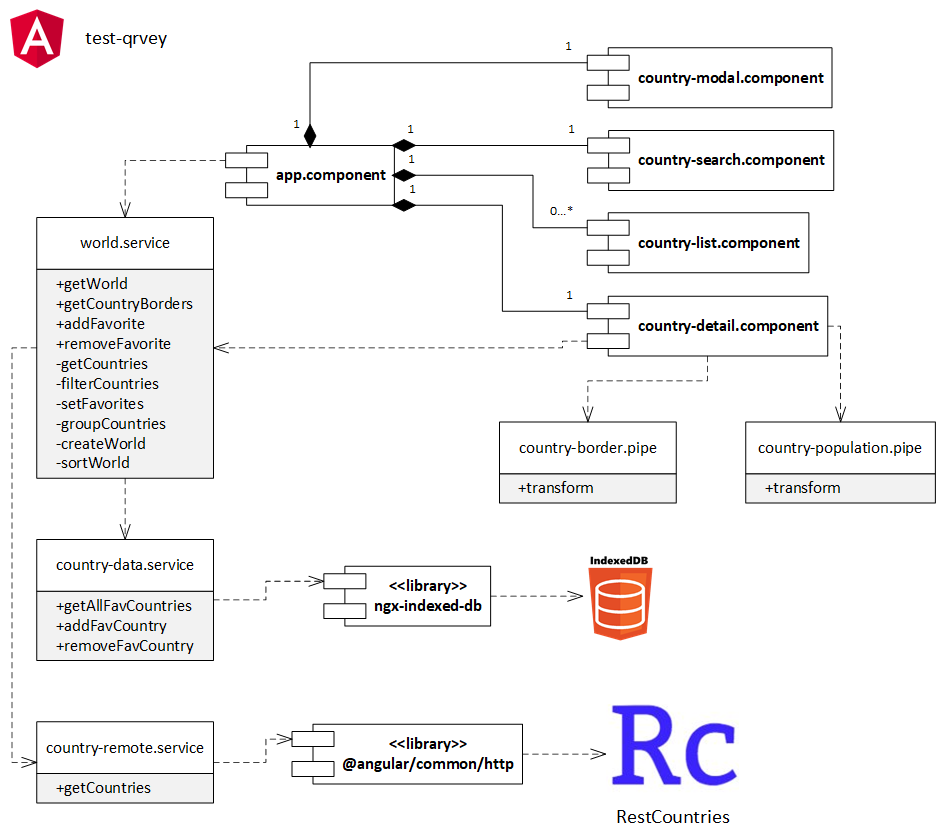
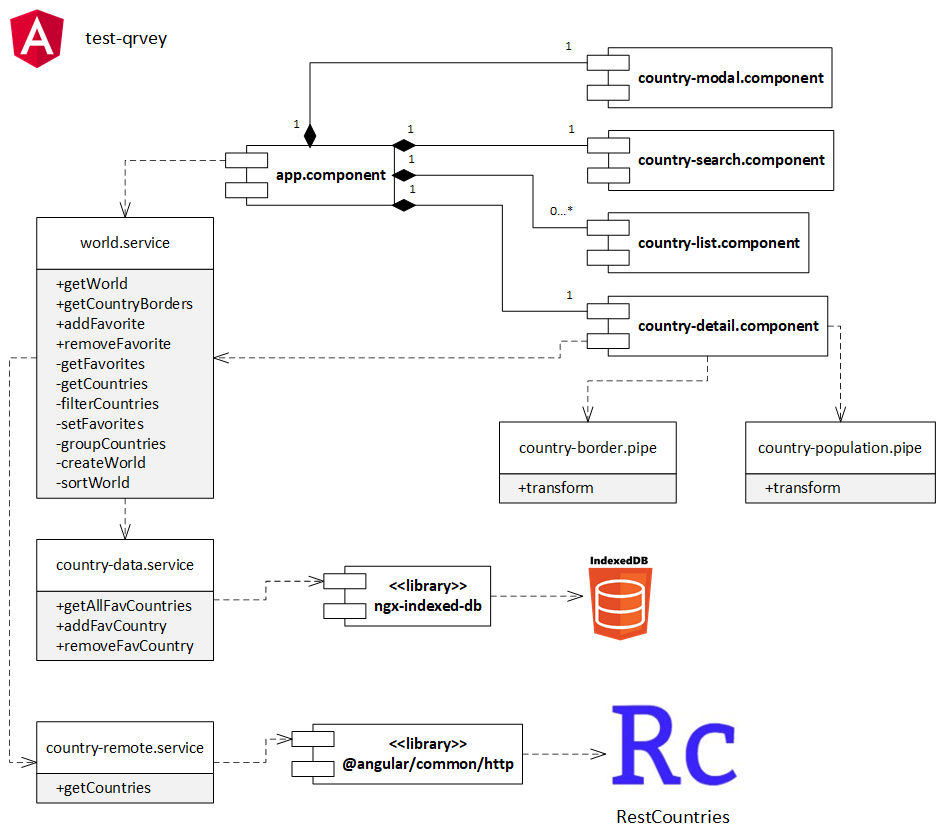
file documentation

Changed region(s): [[0.0619, 0.4029, 0.1857, 0.5888], [0.3404, 0.4029, 0.588, 0.4338], [0.2166, 0.4029, 0.2476, 0.4338]]

diff --git a/src/app/services/world.service.ts b/src/app/services/world.service.ts
@@ -1,13 +1,17 @@
-import { Observable, OperatorFunction } from 'rxjs';
-import { map, mergeAll } from 'rxjs/operators';
+import { Observable, OperatorFunction, of } from 'rxjs';
+import { catchError, map, mergeAll } from 'rxjs/operators';
 
 import { Country } from './../models/country';
 import { CountryDataService } from './../repository/country-data.service';
 import { CountryRemoteService } from '../repository/country-remote.service';
 import { Injectable } from '@angular/core';
 import { Region } from './../models/region';
+import { StorageData } from './../models/interfaces/storage-data';
 import { World } from './../models/world';
 
+/**
+ * service to manage the world
+ */
 @Injectable({
   providedIn: 'root',
 })
@@ -21,8 +25,12 @@ export class WorldService {
   private favCountries: Array<any>;
   private flatCountries: Array<Country>;
 
+  /**
+   * @description returns the current world, organized by regions
+   * @param query query to filter countries
+   */
   getWorld(query?: string): Observable<World> {
-    return this.dataService.getAllFavCountries().pipe(
+    return this.getFavorites().pipe(
       map((data) => {
         this.favCountries = data;
         return this.getCountries();
@@ -36,6 +44,18 @@ export class WorldService {
     );
   }
 
+  /**
+   * @description  returns an observable containing all favorites
+   */
+  private getFavorites(): Observable<StorageData[]> {
+    return this.dataService.getAllFavCountries().pipe(
+      catchError((_err) => of([])) // returns empty array if error
+    );
+  }
+
+  /**
+   * @description  returns an observable to load all countries
+   */
   private getCountries(): Observable<Country[]> {
     if (!this.countries) {
       this.countries = this.remoteService.getCountries();
@@ -46,6 +66,10 @@ export class WorldService {
     return this.countries;
   }
 
+  /**
+   * @description operator function to filter countrys by query
+   * @param query desired text.
+   */
   private filterCountries(
     query: string
   ): OperatorFunction<Country[], Country[]> {
@@ -57,6 +81,9 @@ export class WorldService {
     );
   }
 
+  /**
+   * @description operator function to relate countries with favorites
+   */
   private setFavorites(): OperatorFunction<Country[], Country[]> {
     return map((data) => {
       return data.reduce((list, country) => {
@@ -69,6 +96,9 @@ export class WorldService {
     });
   }
 
+  /**
+   * @description operator function to group countries by region
+   */
   private groupCountries(): OperatorFunction<Country[], {}> {
     return map((data) => {
       return data.reduce((world, country) => {
@@ -78,6 +108,9 @@ export class WorldService {
     });
   }
 
+  /**
+   * @description operator function to cast object to world
+   */
   private createWorld(): OperatorFunction<{}, World> {
     return map((plainWorld) => {
       const world = new World();
@@ -88,6 +121,9 @@ export class WorldService {
     });
   }
 
+  /**
+   * @description operator function to sort regions on a world
+   */
   private sortWorld(): OperatorFunction<World, World> {
     return map((world) => {
       world.regions.sort((a: Region, b: Region) =>
@@ -97,21 +133,45 @@ export class WorldService {
     });
   }
 
+  /**
+   * @description returns full name borders of a country
+   * @param country country
+   */
   getCountryBorders(country: Country): string[] {
     return this.flatCountries
       .filter((item) => country.borders.some((border) => border === item.code))
       .map((item) => item.name);
   }
 
+  /**
+   * @description add a country as favorite
+   * @param country country
+   */
   addFavorite(country: Country) {
-    this.dataService.addFavCountry(country).subscribe((response) => {
-      country.favoriteId = response;
-    });
+    this.dataService.addFavCountry(country).subscribe(
+      (response) => {
+        country.favoriteId = response;
+      },
+      (_error) => {
+        console.log('error adding country');
+        country.favoriteId = 0;
+      }
+    );
   }
 
+  /**
+   * @description removes a world from favorites
+   * @param country country
+   */
   removeFavorite(country: Country) {
-    this.dataService.removeFavCountry(country.favoriteId).subscribe((response) => {
-      country.favoriteId = 0;
-    });
+    this.dataService.removeFavCountry(country.favoriteId).subscribe(
+      (_response) => {
+        country.favoriteId = 0;
+      },
+      (_error) => {
+        console.log('error removing country');
+        country.favoriteId = 0;
+      }
+    );
   }
 }

diff --git a/src/app/repository/country-data.service.ts b/src/app/repository/country-data.service.ts
@@ -8,16 +8,26 @@ import { map } from 'rxjs/operators';
 
 const STORE = environment.storeDB;
 
+/**
+ * service to manage communication with indexedDB
+ */
 @Injectable({
   providedIn: 'root',
 })
 export class CountryDataService {
   constructor(private dbService: NgxIndexedDBService<StorageData>) {}
 
+  /**
+   * @description return observable with all countries on favorite list
+   */
   getAllFavCountries(): Observable<StorageData[]> {
     return this.dbService.getAll(STORE);
   }
 
+  /**
+   * @description adds a country to favorite list
+   * @param country country to add
+   */
   addFavCountry(country: Country): Observable<number> {
     return this.dbService.add(STORE, {
       name: country.name,
@@ -25,6 +35,10 @@ export class CountryDataService {
     });
   }
 
+  /**
+   * removes a country from favorite list
+   * @param key favorite id
+   */
   removeFavCountry(key: number): Observable<number> {
     return this.dbService.delete(STORE, key).pipe(map((_data) => key));
   }

diff --git a/src/app/repository/country-remote.service.ts b/src/app/repository/country-remote.service.ts
@@ -7,19 +7,23 @@ import { Injectable } from '@angular/core';
 import { Observable } from 'rxjs';
 import { environment } from '../../environments/environment';
 
+/**
+ * service to manage remote requests
+ */
 @Injectable({
-  providedIn: 'root'
+  providedIn: 'root',
 })
 export class CountryRemoteService {
+  constructor(private httpClient: HttpClient) {}
 
-  constructor(private httpClient: HttpClient) { }
-
+  /**
+   * @description returns an observable with all remote countries
+   */
   getCountries(): Observable<Country[]> {
-    return this.httpClient.get<CountryData[]>(environment.countriesUrl)
-    .pipe(
+    return this.httpClient.get<CountryData[]>(environment.countriesUrl).pipe(
       map((data) => data.map((item) => new Country(item as CountryData))),
       // this avoids multiple calls to a service
-      shareReplay({ bufferSize: 1, refCount: true }),
+      shareReplay({ bufferSize: 1, refCount: true })
     );
   }
 }

diff --git a/src/app/components/country-detail/country-detail.component.ts b/src/app/components/country-detail/country-detail.component.ts
@@ -5,6 +5,9 @@ import { WorldService } from './../../services/world.service';
 import { faStar as emptyStar } from '@fortawesome/free-regular-svg-icons';
 import { faStar as fullStar } from '@fortawesome/free-solid-svg-icons';
 
+/**
+ * component used for show a single country's detail
+ */
 @Component({
   selector: 'app-country-detail',
   templateUrl: './country-detail.component.html',
@@ -23,10 +26,18 @@ export class CountryDetailComponent implements OnChanges {
     this.countryBorders = this.worldService.getCountryBorders(this.country);
   }
 
+  /**
+   * @description add a country to favorite list
+   * @param country country to agregate
+   */
   addFavorite(country: Country) {
     this.worldService.addFavorite(country);
   }
 
+  /**
+   * @description remove a country to favorite list
+   * @param country country to remove
+   */
   removeFavorite(country: Country) {
     this.worldService.removeFavorite(country);
   }

diff --git a/src/app/components/country-search/country-search.component.ts b/src/app/components/country-search/country-search.component.ts
@@ -3,6 +3,9 @@ import { Component, EventEmitter, OnInit, Output } from '@angular/core';
 import { FormControl } from '@angular/forms';
 import { faSearch } from '@fortawesome/free-solid-svg-icons';
 
+/**
+ * emits a event when search field changes its value
+ */
 @Component({
   selector: 'app-country-search',
   templateUrl: './country-search.component.html',

diff --git a/src/app/components/country-list/country-list.component.ts b/src/app/components/country-list/country-list.component.ts
@@ -4,6 +4,9 @@ import { Country } from './../../models/country';
 import { Region } from './../../models/region';
 import { faStar as fullStar } from '@fortawesome/free-solid-svg-icons';
 
+/**
+ * displays a region with its country list
+ */
 @Component({
   selector: 'app-country-list',
   templateUrl: './country-list.component.html',

diff --git a/src/app/pipes/country-borders.pipe.ts b/src/app/pipes/country-borders.pipe.ts
@@ -1,7 +1,10 @@
 import { Pipe, PipeTransform } from '@angular/core';
 
+/**
+ * format borders in a single line
+ */
 @Pipe({
-  name: 'countryBorders'
+  name: 'countryBorders',
 })
 export class CountryBordersPipe implements PipeTransform {
   transform(countryBorders: string[]): string {

diff --git a/src/app/pipes/country-population.pipe.ts b/src/app/pipes/country-population.pipe.ts
@@ -3,6 +3,9 @@ import { Pipe, PipeTransform } from '@angular/core';
 const SIZES = ['People', 'K', 'M', 'B'];
 const mainOrder = 1000;
 
+/**
+ * format population based on number's size
+ */
 @Pipe({
   name: 'countryPopulation',
 })

diff --git a/src/app/components/country-modal/country-modal.component.ts b/src/app/components/country-modal/country-modal.component.ts
@@ -1,5 +1,8 @@
 import { Component, HostListener } from '@angular/core';
 
+/**
+ * generic modal
+ */
 @Component({
   selector: 'app-country-modal',
   templateUrl: './country-modal.component.html',
